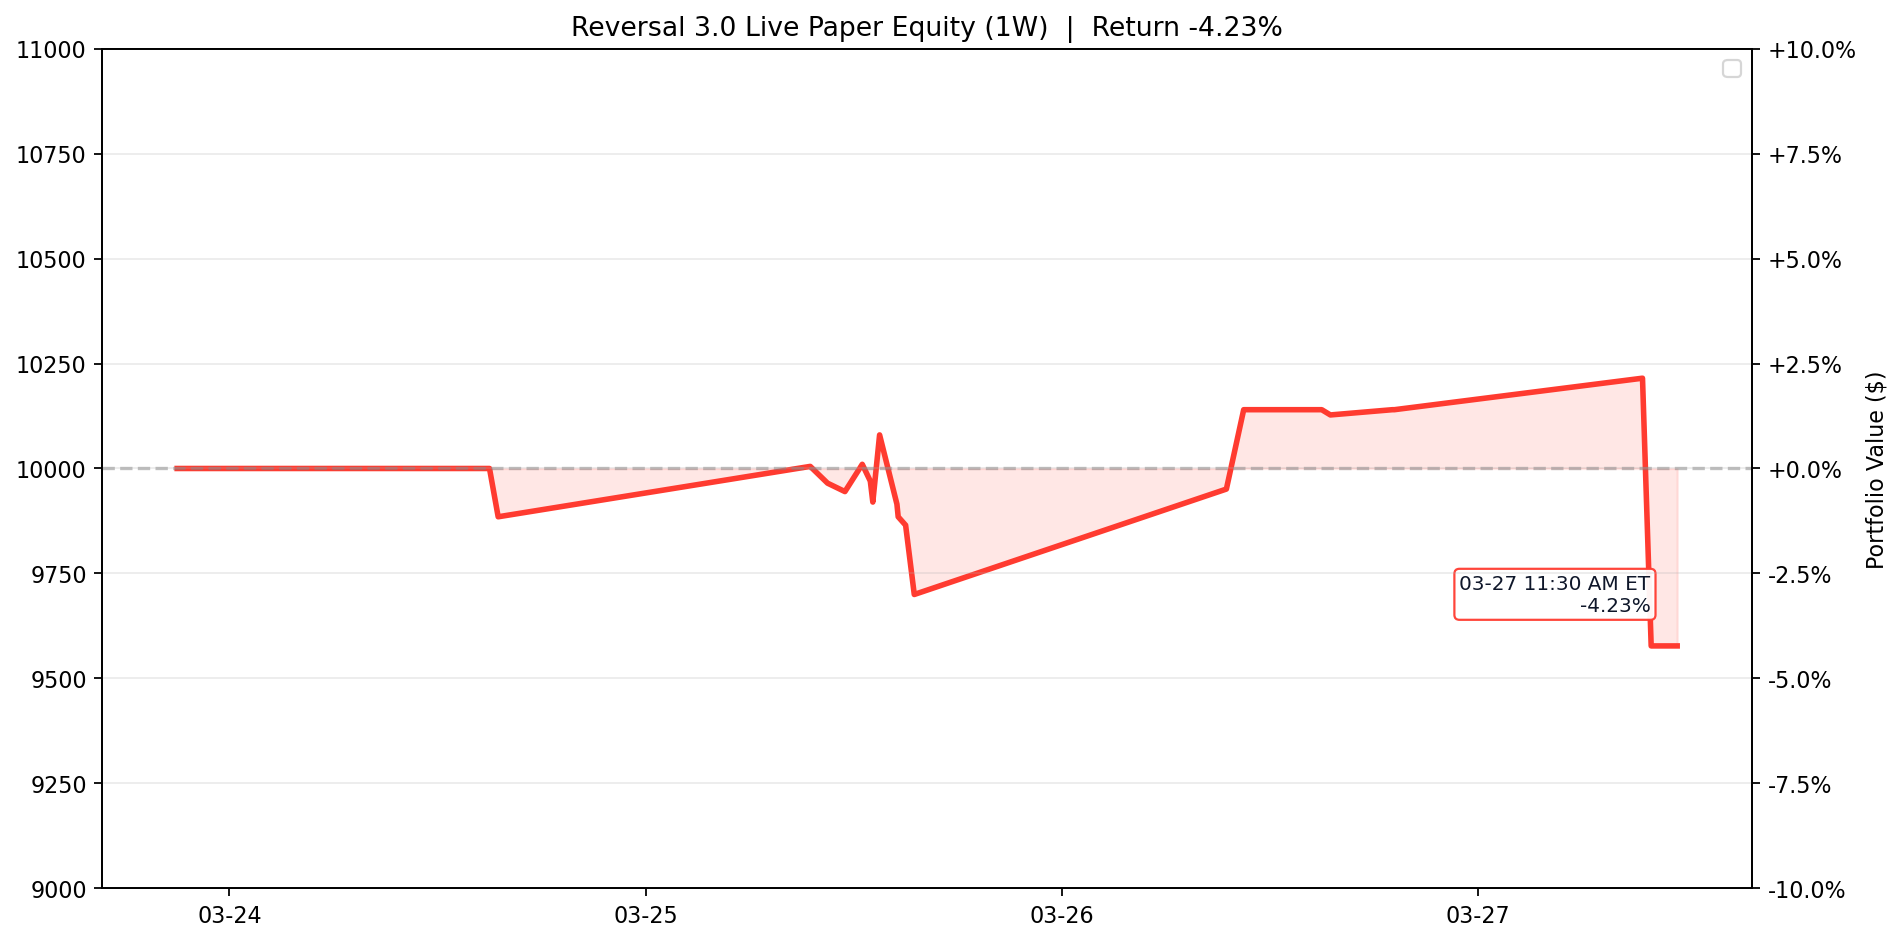
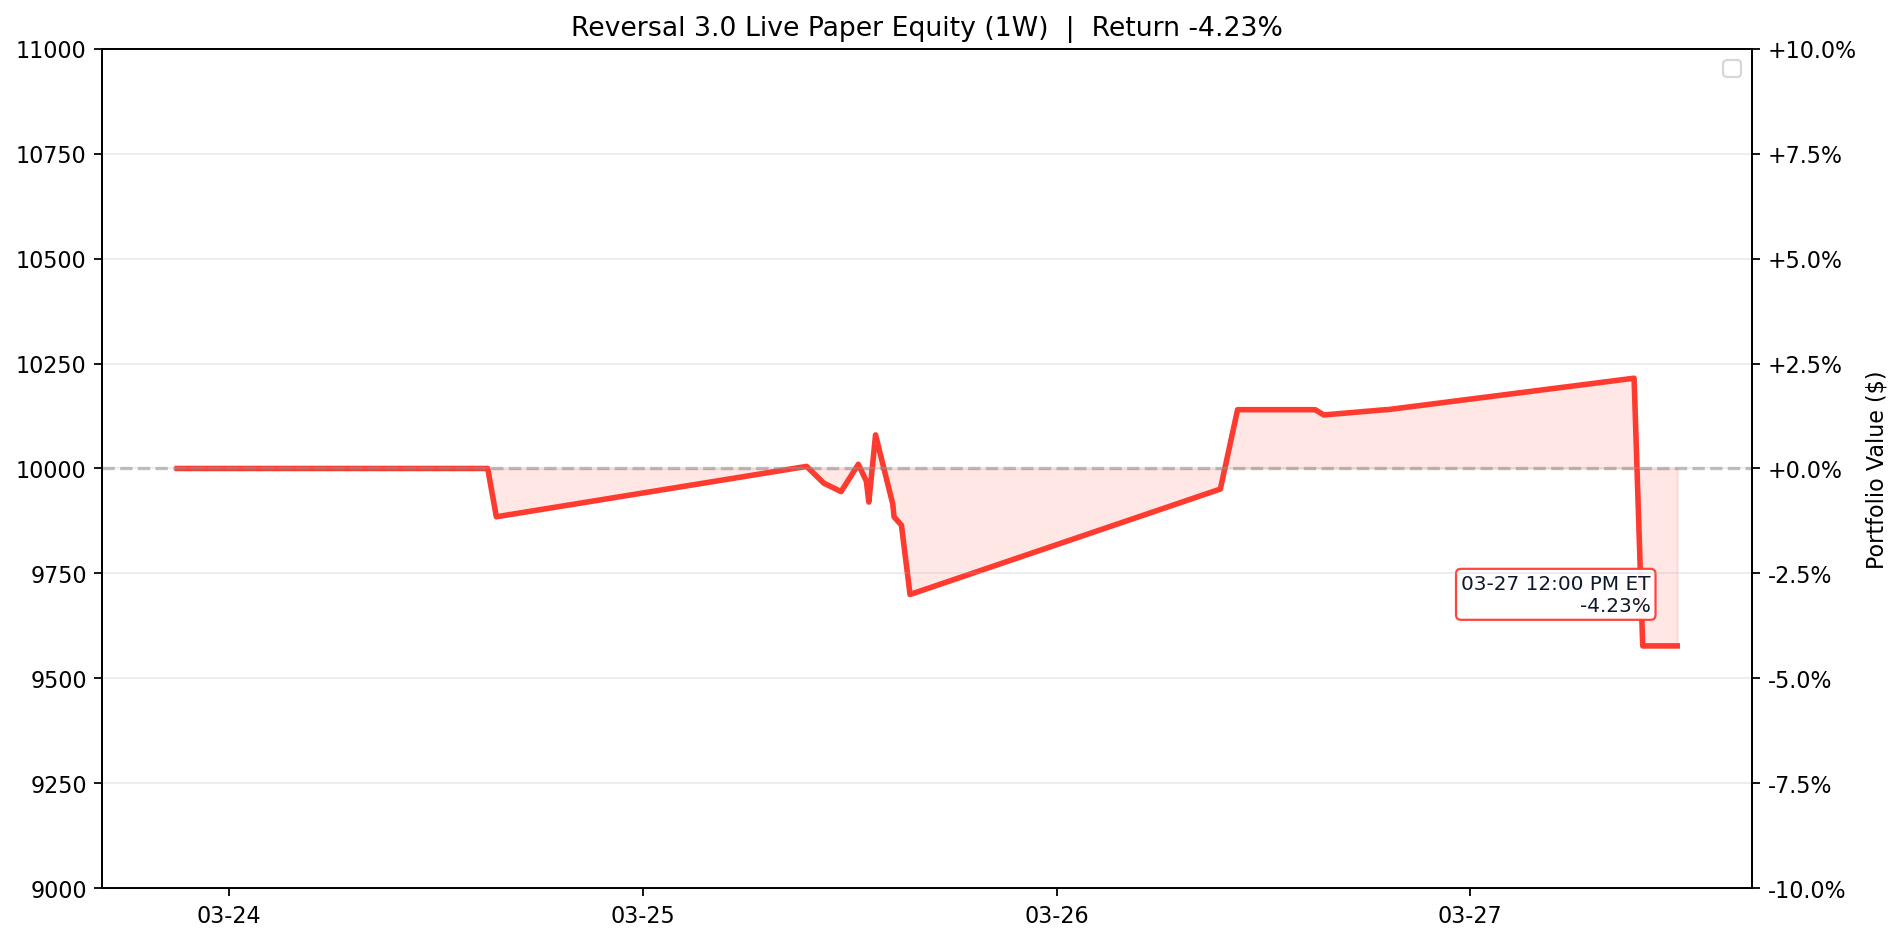
Update Reversal 3.0 live paper test 2026-03-27 12:00 ET

diff --git a/results/reversal_3_0_live/README.md b/results/reversal_3_0_live/README.md
@@ -1,7 +1,7 @@
 # Reversal 3.0 Live Paper Test
 
-Last updated (ET): `2026-03-27 11:30:06 EDT`
-Last processed slot: `manage_1130`
+Last updated (ET): `2026-03-27 12:00:03 EDT`
+Last processed slot: `manage_1200`
 
 ## Active Configuration
 
@@ -40,18 +40,18 @@ ticker     contract_symbol entry_trade_date_et exit_trade_date_et  entry_option_
 
 ```text
 ticker  success_rate_%  matched_signals  current_drop_%  target_rebound_$  target_price  rolling_sigma_20d_%  call_candidate
-  REGN           97.06               34            0.78              4.14        754.96                28.18            True
-  INTC           94.29               35            1.07              0.33         43.96                64.25            True
-  NVDA           93.10               29            0.94              1.13        170.76                31.98            True
-  AVGO           92.59               27            1.62              3.51        307.91                38.20            True
-  CTAS           89.29               28            0.79              0.94        168.45                26.37            True
-  CDNS           88.89               36            1.36              2.67        279.47                23.06            True
-  PLTR           87.88               33            1.40              1.44        146.94                48.38            True
-  FTNT           87.50               16            2.30              1.30         80.47                27.82            True
-  PCAR           87.10               31            1.01              0.81        114.98                23.50            True
-   AMD           86.21               29            1.66              2.37        202.75                56.22            True
-  CHTR           86.11               36            0.67              1.02        218.07                37.58            True
-  MRVL           85.71               21            2.82              1.92         96.86                74.63            True
+  REGN           96.77               31            1.11              5.87        754.21                28.18            True
+  INTC           94.44               36            0.60              0.19         44.02                64.25            True
+  NVDA           92.31               26            1.13              1.36        170.66                31.98            True
+  AVGO           91.67               24            1.80              3.90        307.75                38.20            True
+  CTAS           89.29               28            0.75              0.89        168.47                26.37            True
+  PLTR           88.89               27            1.87              1.94        146.73                48.38            True
+  FTNT           87.50               16            2.42              1.37         80.44                27.82            True
+  CDNS           86.67               30            1.59              3.11        279.29                23.06            True
+ CMCSA           86.67               30            0.66              0.13         28.66                27.69            True
+   AMD           85.71               35            1.08              1.55        203.11                56.22            True
+  PCAR           85.71               28            1.03              0.83        114.97                23.50            True
+  CHTR           85.29               34            0.94              1.44        217.89                37.58            True
 ```
 
 ## Recent Events

diff --git a/README.md b/README.md
@@ -3,10 +3,10 @@
 <!-- reversal-3.0-live:start -->
 ## Reversal 3.0 Live Paper Test
 
-- Last updated (ET): `2026-03-27 11:30:06 EDT`
+- Last updated (ET): `2026-03-27 12:00:03 EDT`
 - Equity: `$9,577.50` | Realized: `$-422.50` | Unrealized: `$0.00` | Open positions: `0`
 - Today closed trades: `1`
-- Current slot: `manage_1130`
+- Current slot: `manage_1200`
 - Chart: trailing `1W` with ET timestamps
 
 _None_
